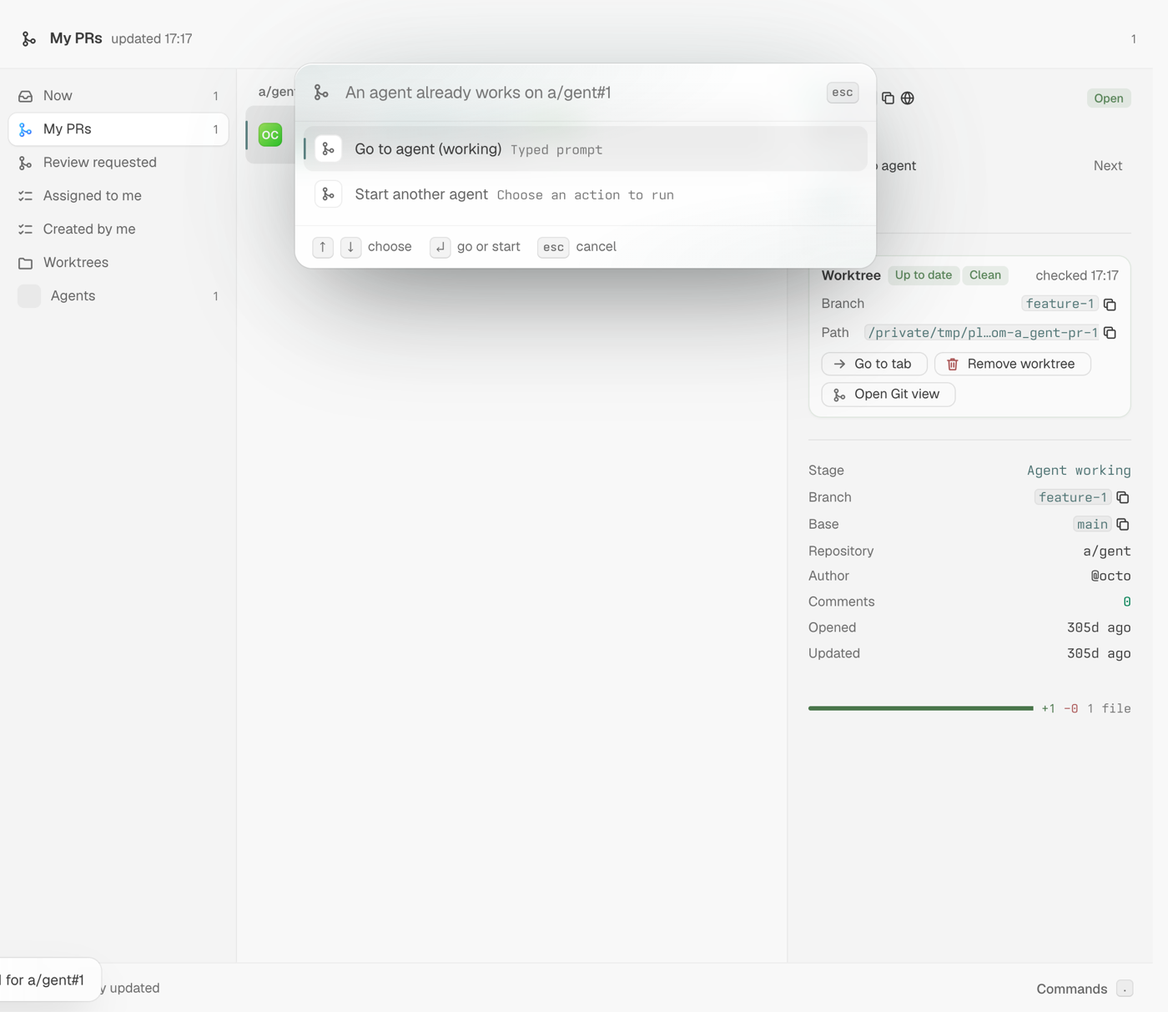
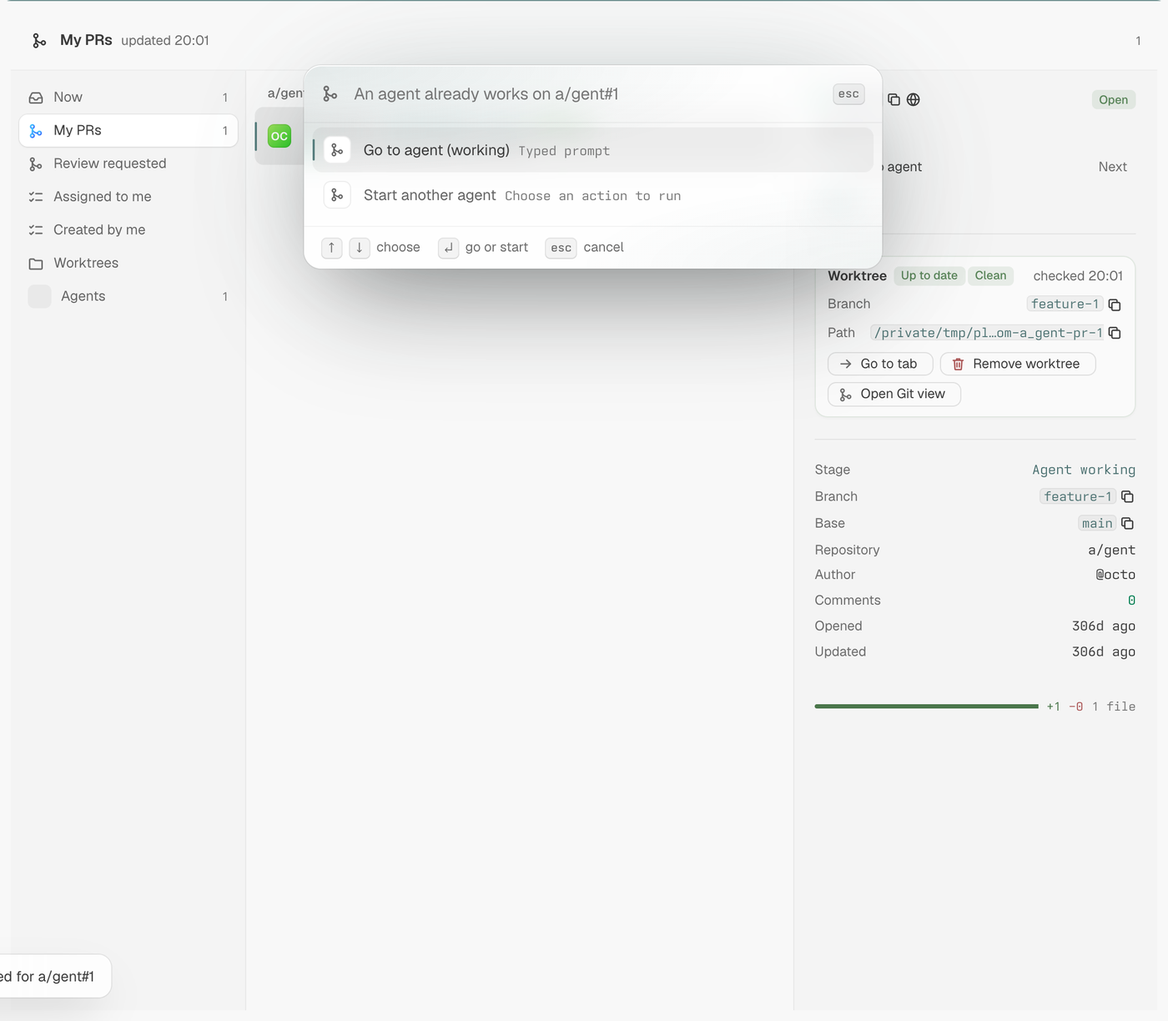
Remove the queue's bottom bar; sort changes announce by toast (tern-plotroom#z6js)

diff --git a/plugin/plotroom.css b/plugin/plotroom.css
@@ -15,56 +15,6 @@
 	display: none;
 }
 
-/* Keep the status label and actions in one bottom row; the native picker otherwise stacks two bars. */
-[data-surface='plugin.plotroom.prs'] .sf-picker[data-role*='.footer-status'] .pk-sheet {
-	display: grid;
-	grid-template-columns: minmax(0, max-content) minmax(0, 1fr);
-	grid-template-rows: auto minmax(0, 1fr) auto;
-}
-
-[data-surface='plugin.plotroom.prs'] .sf-picker[data-role*='.footer-status'] .pk-head,
-[data-surface='plugin.plotroom.prs'] .sf-picker[data-role*='.footer-status'] .pk-body {
-	grid-column: 1 / -1;
-}
-
-[data-surface='plugin.plotroom.prs'] .sf-picker[data-role*='.footer-status'] .pk-strip {
-	grid-column: 1;
-	grid-row: 3;
-	min-width: 0;
-}
-
-/* The chips are always empty here; hiding them gives the label their room (it still ellipsizes natively when the pane is tiny). */
-[data-surface='plugin.plotroom.prs'] .sf-picker[data-role*='.footer-status'] .pk-strip-chips {
-	display: none;
-}
-
-[data-surface='plugin.plotroom.prs'] .sf-picker[data-role*='.footer-status'] .pk-strip-l {
-	flex: 1;
-	min-width: 0;
-	max-width: none;
-}
-
-[data-surface='plugin.plotroom.prs'] .sf-picker[data-role*='.footer-status'] .pk-bar {
-	grid-column: 2;
-	grid-row: 3;
-	min-width: 0;
-}
-
-/* Tern's picker hides action-bar keycaps outside the omp console; every button here has a one-key shortcut worth showing. */
-[data-surface='plugin.plotroom.prs'] .sf-picker .pk-btn .kbds {
-	display: inline-flex;
-	gap: 2px;
-}
-
-/* Tern's keycap is 20px, nearly the 28px button's height; 16px sits inside it like a label. */
-[data-surface='plugin.plotroom.prs'] .sf-picker .pk-btn .kbd {
-	min-width: 16px;
-	height: 16px;
-	padding: 0 4px;
-	border-radius: 4px;
-	font-size: 10px;
-}
-
 /* The PR description is a folded card only for its native clamp and "N more lines" button: no head row, no indent. */
 [data-surface='plugin.plotroom.prs'] .sf-card[data-role='plotroom.description'] > .sf-card-head {
 	display: none;

diff --git a/scripts/smoke.py b/scripts/smoke.py
@@ -1494,7 +1494,7 @@ def sc_workflow(s: Smoke) -> None:
     s.wait_until("hidden again", lambda: not any("Flow PR 1" in t for t in s.texts()))
     s.ctl_ok("plugins", "run", "plugin.plotroom.sort")
     s.wait_text("the sort toast", "Sorted: ")
-    s.wait_until("the sort is stated in the view's own line, not only a toast", lambda: any(t.startswith("Sort: ") for t in s.texts()))
+    s.eq("the sort is announced only by the toast: no Sort: line", False, any(t.startswith("Sort: ") for t in s.texts()))
     s.shot("sorted")
     # The board: one unnoted worktree, made dirty with no press; one linked to the pull request the fake gh answers for.
     linked = s.tmp / "wts" / "flow-linked"

diff --git a/docs/reference.md b/docs/reference.md
@@ -42,7 +42,7 @@ Update later with the same command plus `--force`.
 
 ## Commands and keys
 
-`.` opens **Commands**, the one key bound by default. Its rows are grouped and filtered to what applies now, **Next** first (the selected item's suggested next move; see Triage), then **Actions** (Type a prompt…, the actions offered under the view, and Go to agent while the item has one, plus Interrupt agent, Stop agent… and Message agent… while its agent is live, and Disagree with check… while its newest agent is a checker with a verdict; there is no separate agent picker in the menu), then **Jira - Issue**, **GitHub - PR** and **GitHub - Issue** (the selected item's own operations, under the heading of its type: Open, Worktree, Go to tab while the item has a tab, Assign to me, Comment…, Close or Reopen issue…, Ready for review… or Convert to draft…, Merge…, Approve…, Request changes…, Update branch… while the preview shows the branch behind its base, Re-run failed checks, Draft PR…, each only where it applies), **Now** (Go to agent while the selected Now row's agent needs you, and Reply… while it waits for input, Mark read… while Now lists notifications), **Triage** (Mark seen, Snooze until tomorrow, Unpin while it is pinned), **Filter & Sort** (Show or hide snoozed, Next sort order, Search, Refresh), **Views** (every entry in the sidebar's order, Now, Pins, Worktrees and Agents included, and Open item by URL…) and **Configuration** (Settings, Shortcut list, Copy usage report). Rows that need a selection are not listed without one, nor are commands the item cannot take (no merge on an issue, no re-run without a failed run); each row shows its key if it has one. Settings › General gives any queue action, and any action, a key of its own (Enter on its row, then the key, or Backspace to remove it), for pull requests and issues alike and per machine. The action bar at the bottom of the queue shows only the buttons that have a key (Worktrees' Remove finished button and Now's Reply… and Go to agent need none) (an error card with no items also shows Refresh and Settings); the preview's head opens the item (the globe icon, **Open**). The arrows, `Enter` (open the item in a Browser block beside the queue), `Tab` (sidebar ↔ queue), `Esc`, Page Up/Down, Home and End are fixed. **A view with items selects its first item when it opens** (Worktrees, its first worktree), so a preview always shows; it cannot be closed. `Esc` clears a search, moves focus from the sidebar back to the queue and cancels the dialog it applies to; it never clears the selection. A selected item's preview stays usable in a narrow block, shown below the queue. Once bound, `?`'s Shortcut list shows the keys as you have set them. Settings › General has a **Use one-key shortcuts** row that binds the classic set (`j`/`k` move, `x` next move, `w` worktree, `g` go to tab, `a` agent picker, `G` go to agent, `m` mark seen, `z`/`Z` snooze, `o` sort, `/` search, `r` refresh, `s` settings, `?` help, `u` find finished worktrees, `d` remove) to the actions that have no key; a key you saved keeps its action (a shortcut you removed stays removed), and a preset key another action already uses is skipped and listed in a toast.
+`.` opens **Commands**, the one key bound by default. Its rows are grouped and filtered to what applies now, **Next** first (the selected item's suggested next move; see Triage), then **Actions** (Type a prompt…, the actions offered under the view, and Go to agent while the item has one, plus Interrupt agent, Stop agent… and Message agent… while its agent is live, and Disagree with check… while its newest agent is a checker with a verdict; there is no separate agent picker in the menu), then **Jira - Issue**, **GitHub - PR** and **GitHub - Issue** (the selected item's own operations, under the heading of its type: Open, Worktree, Go to tab while the item has a tab, Assign to me, Comment…, Close or Reopen issue…, Ready for review… or Convert to draft…, Merge…, Approve…, Request changes…, Update branch… while the preview shows the branch behind its base, Re-run failed checks, Draft PR…, each only where it applies), **Now** (Go to agent while the selected Now row's agent needs you, and Reply… while it waits for input, Mark read… while Now lists notifications), **Triage** (Mark seen, Snooze until tomorrow, Unpin while it is pinned), **Filter & Sort** (Show or hide snoozed, Next sort order, Search, Refresh), **Views** (every entry in the sidebar's order, Now, Pins, Worktrees and Agents included, and Open item by URL…) and **Configuration** (Settings, Shortcut list, Copy usage report). Rows that need a selection are not listed without one, nor are commands the item cannot take (no merge on an issue, no re-run without a failed run); each row shows its key if it has one. Settings › General gives any queue action, and any action, a key of its own (Enter on its row, then the key, or Backspace to remove it), for pull requests and issues alike and per machine. The queue has no bottom bar: every action is its key and its Commands row (Worktrees' Remove finished, Now's Reply… and Go to agent, Refresh and Settings included). While GitHub's rate limit holds, the header says **Paused by GitHub until HH:MM:SS**; Remove on a main, locked or missing worktree toasts why it is not removed; the preview's head opens the item (the globe icon, **Open**). The arrows, `Enter` (open the item in a Browser block beside the queue), `Tab` (sidebar ↔ queue), `Esc`, Page Up/Down, Home and End are fixed. **A view with items selects its first item when it opens** (Worktrees, its first worktree), so a preview always shows; it cannot be closed. `Esc` clears a search, moves focus from the sidebar back to the queue and cancels the dialog it applies to; it never clears the selection. A selected item's preview stays usable in a narrow block, shown below the queue. Once bound, `?`'s Shortcut list shows the keys as you have set them. Settings › General has a **Use one-key shortcuts** row that binds the classic set (`j`/`k` move, `x` next move, `w` worktree, `g` go to tab, `a` agent picker, `G` go to agent, `m` mark seen, `z`/`Z` snooze, `o` sort, `/` search, `r` refresh, `s` settings, `?` help, `u` find finished worktrees, `d` remove) to the actions that have no key; a key you saved keeps its action (a shortcut you removed stays removed), and a preset key another action already uses is skipped and listed in a toast.
 
 Commands lists only names, details and keys: an action's prompt text is not sent with it (the action runs through its own link, which fetches the text), so many or long prompts never push rows out of Commands. An action's row shows the prompt's first line with its variables filled in for the selected item (`{url}` `{owner}` `{repo}` `{number}` `{title}` `{author}` `{branch}` `{base}` for a PR; an issue's url, key, title, author, labels, owner, repo and number, or project, status and type), or no detail when a variable stays unfilled. Opened from **Agents**, it offers **Go to agent**, **Interrupt agent**, **Stop agent…** and **Message agent…** for the selected row (its own **Agents** group), the views, Settings and the shortcut list, and none of the queue's Snooze, sort, search or Refresh rows. Opened from **Now**, it offers Go to agent while the selected row's agent needs you and Reply… while it waits for input, Mark read… while Now lists notifications, Show or hide snoozed, Refresh, the views, Settings and the shortcut list.
 Starting an action by its key, a Commands row or a typed prompt while a live agent already works on the item first asks **Go to agent (state)** (with the action's name as detail; its key hint reads "go or start") or **Start <action> anyway**; Cancel starts nothing. The agent picker lists every action whatever the size of their texts, and a pick fetches its own text. Other pickers' Enter hints: message selection "send", draft review "create or edit", draft destination "open".
@@ -58,7 +58,7 @@ Commands' item rows also offer **Copy link**, **Copy number** (`#N`, or the Jira
 - **Now.** The first entry in the sidebar, and what a new Plotroom block opens on (a block launched to show one item opens on it; a restored block on the entry it showed). It lists everything that needs you, ranked, top first, each row with a first badge that says why: **Agent needs input** (any item whose agent waits for input), or, for an idle agent whose turn ended, the limit its chain stopped at (**3 failed checks**, **3 runs without progress** or **3 failed starts**, see Chain limits; the preview's Chain fact says it too), **Check failed** (its checker found what fails, see Supervise; the preview lists the findings), **Report: stuck** or **Report: needs human** (its end-of-run report says so, whatever its outcome) or **<outcome>: Not verified** (its run's outcome was checked and GitHub does not show it, see Supervise); **Blocked: …** (your open pull request is Blocked, with what blocks it); **Review requested** (open pull requests that ask for your review, oldest first); **Ready to merge** (your open pull request); an unread GitHub notification you take part in, with its reason (Mention, CI…), when its item is not already listed; **Assigned: new** or **Assigned: changed** (open issues assigned to you, on GitHub and in Jira, that are New or Changed). An item is listed once, at its highest reason. Snoozed items leave Now and its count; **Show or hide snoozed** lists them with a **Snoozed** badge (still not counted), and an agent that needs you always lists its item. The sidebar entry and the pane title count what is listed and not snoozed. An empty Now says nothing needs you. Now is not edited or deleted in Settings › Views, and it is not searched.
 - **What Now reads.** For every signed-in `gh` login: its open pull requests (`is:open author:@me archived:false`), the open ones asking for its review (`is:open user-review-requested:@me draft:false archived:false`) and the open issues assigned to it (`is:open assignee:@me archived:false`); Jira's open work assigned to you (`assignee = currentUser() AND statusCategory != Done`) while `acli` is on; and the unread notifications `gh`'s active login takes part in (`notifications?participating=true`, the first 50). Agent states come live from the window. It is read with every refresh of the queue, whether Now is shown or not (so `N need you` stays current on any view), and never more often: the GitHub points it spends join the block's cost, so the polite refresh interval stretches, and a login GitHub's cooldown holds is not asked. Notifications obey GitHub's `X-Poll-Interval` (no request is sent sooner) and the read is conditional on `Last-Modified`, so an unchanged inbox (304) costs no quota and keeps the rows. A source that cannot be read keeps its last answer and Now's subtitle says why (for notifications, the fix: `gh auth refresh -h github.com -s notifications`); nothing falls back to another login. While a sign-in failure or a missing CLI holds the block, Now is not read either; Refresh tries again.
 - **Enter on a Now row** goes to the agent of a row that needs input, and otherwise shows the item in the block as a linked pull request is (selected in place when the shown view lists it, else pinned); a notification about neither, such as a CI run, says so. **Mark read…** (Commands, while Now lists notifications) confirms with Cancel first, naming the account and how many threads per repository, then marks exactly the notification rows Now lists read: read, never done, so GitHub keeps them in its inbox. The account is fixed when the plan is made.
-- **Answering an agent from Now.** A row whose agent needs input shows the agent's last message (as the Agents list reads it, cut to 200 bytes), and so does its preview, with **Reply…** and **Go to agent** as buttons and in Commands › Now. **Reply…** asks for one line and sends it as **Message agent…** does; a blank line sends nothing. An agent that stopped waiting before the reply is sent gets the same toast Message agent… shows (`No agent is running for <item>`) and nothing is sent. Once the agent leaves Needs input, its row leaves Now (an item listed for another reason stays, under that reason). Structured choices an agent offers are answered in its pane: **Go to agent**. A row whose idle agent needs you for its report or its outcome offers only **Go to agent**, and its preview shows the action, outcome, report, reason and blocker; it leaves Now once the agent works again, exits, or a later check finds the outcome.
+- **Answering an agent from Now.** A row whose agent needs input shows the agent's last message (as the Agents list reads it, cut to 200 bytes), and so does its preview, with **Reply…** and **Go to agent** in Commands › Now. **Reply…** asks for one line and sends it as **Message agent…** does; a blank line sends nothing. An agent that stopped waiting before the reply is sent gets the same toast Message agent… shows (`No agent is running for <item>`) and nothing is sent. Once the agent leaves Needs input, its row leaves Now (an item listed for another reason stays, under that reason). Structured choices an agent offers are answered in its pane: **Go to agent**. A row whose idle agent needs you for its report or its outcome offers only **Go to agent**, and its preview shows the action, outcome, report, reason and blocker; it leaves Now once the agent works again, exits, or a later check finds the outcome.
 - **Typed views.** Saved searches in one sidebar, each a **Pull requests** or an **Issues** view. A GitHub view takes a GitHub search query across every repository its login can see (`repo:`, `org:` and `user:` narrow it); a Jira view takes JQL across every project `acli` can see. The sidebar groups the GitHub pull request and issue views together, with Jira views alongside. In a block 127 columns wide or narrower the sidebar folds into a dropdown whose entries read `GitHub - octocat: My PRs` (integration, profile when there is one, then the view) and show no counts. Settings › Views has a group for each `gh` login signed in and one for Jira while `acli` is installed, each with its views and an **Add view** button: the new view searches as that login (or through Jira) and is of the active view's type, an Issues view for Jira. While a group lacks one of the default views, **Add missing defaults** beside Add view adds back each default it has none named like, as that group's (an edited default keeps your query). A view's form holds its Type (GitHub views), name, query, grouping and prompts. Changing a view's Type keeps its name and query but not the prompts offered under it. Issue views list In Progress, then To Do, then Done.
 - **Default views.** A first run starts with these. Pull requests: **My PRs** (grouped by repository) and **Review requested** (asked of you directly, oldest waiting first, without drafts). GitHub issues: **Assigned to me** and **Created by me** (assigned to someone else or no one). All GitHub defaults skip archived repositories; those not marked otherwise are grouped by repository. Jira: **My sprint** (yours, by status) and **Up for grabs** (unassigned, not started), both in an open sprint; **My epics** (by status). Only My epics lists epics (`hierarchyLevel = 1`); the others take `hierarchyLevel < 1`, whatever your site calls its epic type. The two sprint views come only when the Jira site has sprints: Plotroom asks once `acli` starts (again on Refresh), and Add missing defaults offers them once it does. Settings › Views › Add missing defaults adds back any default an existing install is missing.
 - **Per-view accounts.** Work and personal `gh` logins on one machine: each signed-in login has its own group of views in the sidebar, searching as that login. Tokens stay in memory, never on disk.
@@ -75,7 +75,7 @@ Commands' item rows also offer **Copy link**, **Copy number** (`#N`, or the Jira
 - **Seen is automatic; snooze is local.** Each item shows **New** (never seen) or **Changed** (its state, title, review, checks, head, comments, labels or assignees differ from when it was last seen). An item is marked seen when it is selected and its preview is shown in a view, and again if a refresh changes it while it stays shown; a background fetch, Now and Worktrees never mark anything. **Mark seen** stays in Commands to do it by hand. **Snooze until tomorrow** holds an item until 08:00 local time on the next calendar day, even when it is still early morning (a **Snoozed** badge when listed with **Show or hide snoozed**). An agent waiting for input surfaces its item even when snoozed. Seen and snooze state is per machine (kv `triage`).
 - **Now and Show or hide snoozed survive a restart.** Both are saved with the pane and come back with it.
 - **The count of what needs you.** With Tern's status bar enabled, every pane's status line shows **N need you**: the largest Now count of the open Plotroom blocks, and at least the agents that need input (checked every 4 seconds, hidden at zero). Clicking it (or **Plotroom: Show what needs you (Now)**) focuses that block and shows Now.
-- **Sorting.** **Next sort order** cycles the active view through its sorts and saves it with the view (Settings › Views › Sort by, or Default order); the left side of the bottom command bar shows the current `Sort: …` (the saved sort, else the default: "Sort: GitHub's order" on GitHub views, "Sort: Default (status order)" on Jira views). GitHub pull requests: Recently updated, Oldest waiting (by creation time), Review required first, Largest changes first (additions plus deletions). GitHub issues: Recently updated, Oldest waiting (by creation time). Jira issues: Priority (Jira's issue lists keep no update time), always within status category: In Progress, then To Do, then Done (shown only when the view includes it), whatever the sort; `Status` groups follow the same order, by status name within a category. A group's items are sorted inside it. Pinned items have no sort. Changing a GitHub view's Type keeps its sort where the new type offers it; otherwise the view returns to default order and a toast says so. Settings › Views › Group by also offers Fork (pull requests: the fork's owner, else Same repository) and Label (the item's first label, else No label; GitHub and Jira). A search that matches nothing says so with its text; the preview of a snoozed item has an Unsnooze row; a worktree removal git refused offers only Keep.
+- **Sorting.** **Next sort order** cycles the active view through its sorts and saves it with the view (Settings › Views › Sort by, or Default order); each change toasts the new order (**Sorted: <order>**, with the view's name); Settings › Views › Sort by always shows the current one (Default order: GitHub's order on GitHub views, status order on Jira views). GitHub pull requests: Recently updated, Oldest waiting (by creation time), Review required first, Largest changes first (additions plus deletions). GitHub issues: Recently updated, Oldest waiting (by creation time). Jira issues: Priority (Jira's issue lists keep no update time), always within status category: In Progress, then To Do, then Done (shown only when the view includes it), whatever the sort; `Status` groups follow the same order, by status name within a category. A group's items are sorted inside it. Pinned items have no sort. Changing a GitHub view's Type keeps its sort where the new type offers it; otherwise the view returns to default order and a toast says so. Settings › Views › Group by also offers Fork (pull requests: the fork's owner, else Same repository) and Label (the item's first label, else No label; GitHub and Jira). A search that matches nothing says so with its text; the preview of a snoozed item has an Unsnooze row; a worktree removal git refused offers only Keep.
 - **Checks and details.** The selected PR's full check list, re-runs collapsed to the newest, with its merge state (conflicts, behind base, blocked, ready), each reviewer's latest verdict and who is still requested, and its description folded above the facts. Reloaded on every successful refresh, so check status changes show up even when the PR itself is unchanged. Linked pull requests and issues (an issue's linked PRs, a PR's closing issues, a Jira issue's links) show as their own sections with state and a short excerpt of the description; a link Plotroom cannot read falls back to its name (the file's basename for a path) instead of an error.
 - **Pages open beside the queue.** Enter and **Open** show the selected item's page in Tern's Browser beside the queue. Use Tern's native Browser profile controls to choose shared, repository, session, named or private profiles in the Browser's address-bar chip. Browser logins are separate from the `gh` account a view searches as; Plotroom never copies CLI credentials into a browser profile or preloads hidden pages.
 
@@ -140,7 +140,7 @@ flowchart LR
 
 ## Clean up
 
-- **Worktrees** (after the views in the sidebar) lists every worktree of every saved checkout straight from git, whatever the current query: branch, path and badges (Main, In tab, Changes, Clean or Unknown, Merged/Closed, Locked, Missing, Unnoted). **Changes** (uncommitted changes) and **Clean** are read automatically while it is shown, with no key to press: the selected row first, then up to 40 worktrees per scan, rotating through the rest, and a scan is due again 30 s after the last one started. **Unknown** means git could not read the changes there; a row not read yet says Reading…. `Enter` opens one in a tab, **Find finished worktrees** asks GitHub or Jira whether the items of up to 20 worktrees per press are merged or closed (a badge only, nothing is removed), **Remove worktree** asks and then `d` removes (Enter or Esc keeps it), **Remove finished worktrees** lists every row Find finished worktrees marked Merged or Closed (never an unchecked, main, locked or missing one; the confirm says how many weren't checked) and asks once: `d` removes them all one at a time, Enter or Esc keeps them; a worktree with changes is refused and kept, and the toast counts removed and kept rows. It is refused while another Worktrees operation runs. All three are in Commands; Find and Remove worktree can be bound in Settings › General to get a key and a footer button. Removal is never forced and refuses the main worktree, a locked or missing one and one with uncommitted changes. Only a branch Plotroom noted for a pull request or issue (kept in the checkout's own git config) is deleted with its worktree, and then like Remove worktree below; a worktree marked Unnoted keeps its branch. At most 200 rows and 50 checkouts are read.
+- **Worktrees** (after the views in the sidebar) lists every worktree of every saved checkout straight from git, whatever the current query: branch, path and badges (Main, In tab, Changes, Clean or Unknown, Merged/Closed, Locked, Missing, Unnoted). **Changes** (uncommitted changes) and **Clean** are read automatically while it is shown, with no key to press: the selected row first, then up to 40 worktrees per scan, rotating through the rest, and a scan is due again 30 s after the last one started. **Unknown** means git could not read the changes there; a row not read yet says Reading…. `Enter` opens one in a tab, **Find finished worktrees** asks GitHub or Jira whether the items of up to 20 worktrees per press are merged or closed (a badge only, nothing is removed), **Remove worktree** asks and then `d` removes (Enter or Esc keeps it), **Remove finished worktrees** lists every row Find finished worktrees marked Merged or Closed (never an unchecked, main, locked or missing one; the confirm says how many weren't checked) and asks once: `d` removes them all one at a time, Enter or Esc keeps them; a worktree with changes is refused and kept, and the toast counts removed and kept rows. It is refused while another Worktrees operation runs. All three are in Commands; Find and Remove worktree can be bound in Settings › General to get a key; on a main, locked or missing worktree, Remove toasts why it is not removed. Removal is never forced and refuses the main worktree, a locked or missing one and one with uncommitted changes. Only a branch Plotroom noted for a pull request or issue (kept in the checkout's own git config) is deleted with its worktree, and then like Remove worktree below; a worktree marked Unnoted keeps its branch. At most 200 rows and 50 checkouts are read.
 - **Remove worktree** asks first (`d` or Remove removes it; Enter or Esc keeps it) and runs on the host that has the checkout, by the same path as Worktrees: it re-reads `git worktree list` for the worktree and its branch first, then runs `git worktree remove` without `--force`, so git (run with `LC_ALL=C`, so its refusal is read in any language) refuses a worktree with uncommitted changes and the card says why. Then its branch, and the confirm (read from git when it opens) says which case applies: a branch Plotroom noted for a pull request or issue goes only if git confirms nothing is lost, an unnoted or guessed one is kept, and a detached worktree has none. A pull request's goes with `branch -D` only when `git merge-base --is-ancestor refs/heads/<branch>` (never a short name, which a same-named tag would win) finds every commit of it in the ref fetched for the PR (and that ref goes too), else with `branch -d`; an issue's goes with `branch -d`. A branch git keeps stays, with its ref, and the toast names it. Plotroom never runs `reset`, `clean`, `stash` or `prune`.
 
 ## Trust

diff --git a/CHANGELOG.md b/CHANGELOG.md
@@ -12,7 +12,7 @@ All notable changes to Plotroom are recorded here. The format follows [Keep a Ch
 - Stage on every item: each row's first badge and the preview's first fact say Merged, Closed, Needs you, Agent working, Blocked, Ready to merge, PR open, Worktree or Not started, derived from GitHub, Jira, git and the item's agent on every render. It replaces the Merged and plain Closed badges, the Working and Needs input badges and an item's Worktree badge when they would say the same. The pull request search also reads GitHub's merge state.
 - Suggested next move: the selected item's stage picks one move (Worktree, Review, Go to agent, Address feedback, Re-run failed checks, Merge…, Ready for review…, Draft PR…, Remove worktree…), shown as the first Commands row under **Next** and as a button below the preview's title. It runs exactly as its own command does. The new queue action **Next move** has no default key; the one-key set binds it to `x`.
 - **Now**: the first entry in the sidebar and what a new block opens on. It ranks everything that needs you, each row saying why: agents that need input, your Blocked pull requests, reviews requested of you (oldest first), your pull requests Ready to merge, unread notifications you take part in, then New or Changed issues assigned to you on GitHub and in Jira. It reads fixed searches per signed-in `gh` login, Jira's open work assigned to you and your notifications, with every refresh of the queue, on any view. Snoozed items follow Show or hide snoozed. One count, `N need you`, shows in the pane title and the status bar; clicking it shows Now (also **Plotroom: Show what needs you (Now)** in Tern's palette).
-- Agent questions answered in Now: an agent that needs input shows its last message on its Now row and in the preview, with **Reply…** (asks for one line and sends it as Message agent… does) and **Go to agent** (buttons, and Commands › Now). An agent that stopped waiting before the reply is sent gets Message agent's toast and nothing is sent; once it stops waiting, its row leaves Now.
+- Agent questions answered in Now: an agent that needs input shows its last message on its Now row and in the preview, with **Reply…** (asks for one line and sends it as Message agent… does) and **Go to agent** (Commands › Now). An agent that stopped waiting before the reply is sent gets Message agent's toast and nothing is sent; once it stops waiting, its row leaves Now.
 - End-of-run report: every agent's prompt, an action's or a typed one, ends with a fixed contract asking the agent to end each turn with a `plotroom-report` JSON block (`attention` ok / stuck / needs-human, `reason`, `commit`, `pr`, `evidence`, `blocker`). Plotroom reads it from the agent's last message when the turn ends, keeps it on the run record and shows its attention, reason and blocker on the Agents row and preview; a missing or malformed one shows **No report**. Settings › Actions shows the contract read-only under the prompt editor. It is a claim, never an outcome.
 - Checked outcomes: each action names an **Outcome** (Settings › Actions: None, Review posted, PR opened, Pushed, Replied to feedback, Merged; the defaults name theirs, Plan none). When an agent's turn ends Plotroom checks it on GitHub as the run's login and records **Verified** or **Not verified** on the run; a fact it cannot read is **Unchecked** and checked again at the next refresh, and a Merged run is checked until it merges or its agent exits. The verdict shows on the row, the preview, the Agents list and Now. An idle agent whose outcome is Not verified, or whose report says stuck or needs human, is Needs you and ranks first in Now (Go to agent, no Reply…). The usage report counts each action's outcomes. Hosts announce protocol 36 (the `outcome` request).
 - Checkers: an action's **Checked by** (Settings › Actions; none by default) names another action that a fresh agent runs on the same item, never in the builder's pane, when a run's end-of-run report names a new commit. The new default issue action **Check** verifies the work in the worktree against the acceptance criteria, posts nothing, and reports `check` pass or fail with `findings`; it checks Implement and Fix. Acceptance criteria are saved on the run at dispatch (a GitHub issue's task-list lines, a Jira description's Acceptance criteria section, else the description, capped) and the builder and its checker get the same `{criteria}` block. A pass marks the run **Checked**; a fail shows its findings in the preview and Now, with the item at Needs you; a check with no verdict fails. Settings refuses an action that checks itself. Hosts announce protocol 37 (the `criteria` request and the actions' `checker` field).
@@ -21,6 +21,7 @@ All notable changes to Plotroom are recorded here. The format follows [Keep a Ch
 
 ### Removed
 
+- The queue's bottom bar (the `Sort: …` line and the action buttons) in every view: actions are their keys and Commands rows, a sort change is announced by its **Sorted:** toast (Settings › Views › Sort by shows the current order), GitHub's rate-limit pause shows in the header as **Paused by GitHub until HH:MM:SS**, and Remove on a main, locked or missing worktree toasts why.
 - The Inbox list (its notifications and Mark read… are in Now), the Needs attention only filter with its `n` one-key shortcut, the pane title's `N new` and the status bar's `N need attention` and `N agents need input` segments (one `N need you` count replaces them; the toast for an agent that starts waiting stays).
 - Commands: Add label… and Remove label…, Re-run all jobs… and Cancel running workflow…, Send a Browser page element to an agent…, and the Jira transition… picker with its REST client. `PLOTROOM_JIRA_API_TOKEN` is no longer read; an action's Move to status (acli) still moves Jira issues.
 - The action field Tell Carly when it finishes and the `plotroom_agents` Carly export. Saved actions that carry it still load; the field is dropped the next time that kind's actions are saved.
@@ -35,7 +36,7 @@ All notable changes to Plotroom are recorded here. The format follows [Keep a Ch
 - Settings has four pages: Views, Actions, Repositories and General (the GitHub and Jira setup pages still show while their CLI is missing). Repositories holds the name formats (formerly Worktrees), each repository and the Jira projects; General holds Keyboard shortcuts and Refresh now with the GitHub quota. Every setting keeps its value. Restore defaults is now **Add missing defaults**: it never overwrote edited defaults.
 - Tern's palette lists only Plotroom: Open, Open item by URL, Message an agent with the selection… and Go to the first agent that needs input. Every other Plotroom command stays in Commands (`.`) with its key, and stays runnable by its action name `plugin.plotroom.<id>` (key binds, `tern ctl plugins run`).
 - README.md is a product page (who Plotroom is for, the loop, screenshots, install and first run); the full behavior spec moved, unchanged, to [docs/reference.md](docs/reference.md), ordered by the loop's steps.
-- UI text uses only PRODUCT.md's glossary: **Commands** (the `.` menu, its first group **Actions**), **Worktrees**, **Needs attention only**, **Snooze until tomorrow**, **Open** and **Open Git view**, and **Checkout** for the repository's main clone (an action's Runs in reads Worktree / Checkout; the shell lens offers Show in Plotroom, Copy, Open). Commands rows show an action's first line filled for the selected item, or no detail, never `{placeholders}`; the duplicate-agent offer names the action, not a pane; the protocol warning reads "Plotroom on <host> is a different version from this window's". Pickers say what Enter does; a GitHub view with no sort reads "Sort: GitHub's order"; the narrow layout's view dropdown no longer repeats the view's name as the title.
+- UI text uses only PRODUCT.md's glossary: **Commands** (the `.` menu, its first group **Actions**), **Worktrees**, **Needs attention only**, **Snooze until tomorrow**, **Open** and **Open Git view**, and **Checkout** for the repository's main clone (an action's Runs in reads Worktree / Checkout; the shell lens offers Show in Plotroom, Copy, Open). Commands rows show an action's first line filled for the selected item, or no detail, never `{placeholders}`; the duplicate-agent offer names the action, not a pane; the protocol warning reads "Plotroom on <host> is a different version from this window's". Pickers say what Enter does; the narrow layout's view dropdown no longer repeats the view's name as the title.
 
 ## [0.33.0] - 2026-11-02
 

diff --git a/AGENTS.md b/AGENTS.md
@@ -66,7 +66,7 @@ Tool lookup order: env `LUAU`/`LUAU_LSP`/`TERN` → `~/.cache/plotroom-check/` (
 - Errors are values: `Problem = {kind, message}` (kinds in `github.luau`). Wrap `tern.kv`/`tern.json` calls in `pcall`; validate untrusted input at the boundary (store validators, `parsePage`, size caps).
 - Stale-callback guards are mandatory: check `alive(state)` and `state.gen` in host callbacks; the window uses `defer` to fetch a fresh `cx`.
 - Security: every command is an argv array; never build shell strings.
-- UI: native Tern kinds only (`picker`, `prefs`, `list`/`item`, `overlay`, `kv`, `badge`, `md`, `meter`, `spinner`, `icon`…); there is no native button, so buttons are the picker's action bar or `item` rows with `hint` keycaps and `actions={click=...}`. Keys must be stable because the window locates nodes by dotted key. Prompt text uses an `editor` node under `role = "omp.prefs.editor"`.
+- UI: native Tern kinds only (`picker`, `prefs`, `list`/`item`, `overlay`, `kv`, `badge`, `md`, `meter`, `spinner`, `icon`…); there is no native button, so buttons are `item` rows with `hint` keycaps and `actions={click=...}`. The queue picker has no action bar or strip: every action is a key and a Commands row. Keys must be stable because the window locates nodes by dotted key. Prompt text uses an `editor` node under `role = "omp.prefs.editor"`.
 - CSS (`plotroom.css`): only where no kind or prop covers it; never restyle what a kind draws. Every selector starts with `[data-surface='plugin.plotroom.prs']`; use Tern tokens; lengths are `px`/`em`/`vw`/`vh`/`%` only (Tern's CSS reference rejects `ch` and `rem`); no logical properties or `:has()`. `scripts/check.py test` lints this.
 - Deliberate shortcuts carry a `ponytail:` comment naming the ceiling and upgrade path.
 - Annotate with SDK types from `tern.d.luau` (`BlockCx`, `WindowCx`, `Node`, `BlockView`, `ProcessResult`, `TimerHandle`, ...).

diff --git a/LEDGER.md b/LEDGER.md
@@ -35,8 +35,8 @@ Every feature, command, setting and surface, mapped to the loop step it serves (
 | Snooze until 08:00 tomorrow; Show or hide snoozed; Unsnooze | Commands, preview | Keep | — | Approved | |
 | Needs attention only filter | Commands | Merge into **Now** | 2 | Approved | Three names today, and a partial answer to "what needs me". Done: removed; Now lists New and Changed assigned items |
 | Pane-title count and the `N need attention` status segment | Pane title, status bar | Merge into one **Now** count | 2 | Approved | Done: one `N need you` count in the pane title and the status bar |
-| Sort orders (Next sort order, sort per view) | Commands, Settings › Views | Keep | — | Approved | |
-| Search | Bottom bar, Commands | Keep | — | Approved | |
+| Sort orders (Next sort order, sort per view) | Commands, Settings › Views | Keep | — | Approved | The order is announced by a toast when it changes; no `Sort:` line |
+| Search | Search field, Commands | Keep | — | Approved | |
 | Group by (repository, status, label) | Settings › Views | Keep | — | Approved | |
 | Preview: description, facts, checks, merge state, reviewers | Preview | Keep | — | Approved | |
 | Preview: worktree card (Up to date, Changes, unpushed count) | Preview | Keep | — | Approved | |
